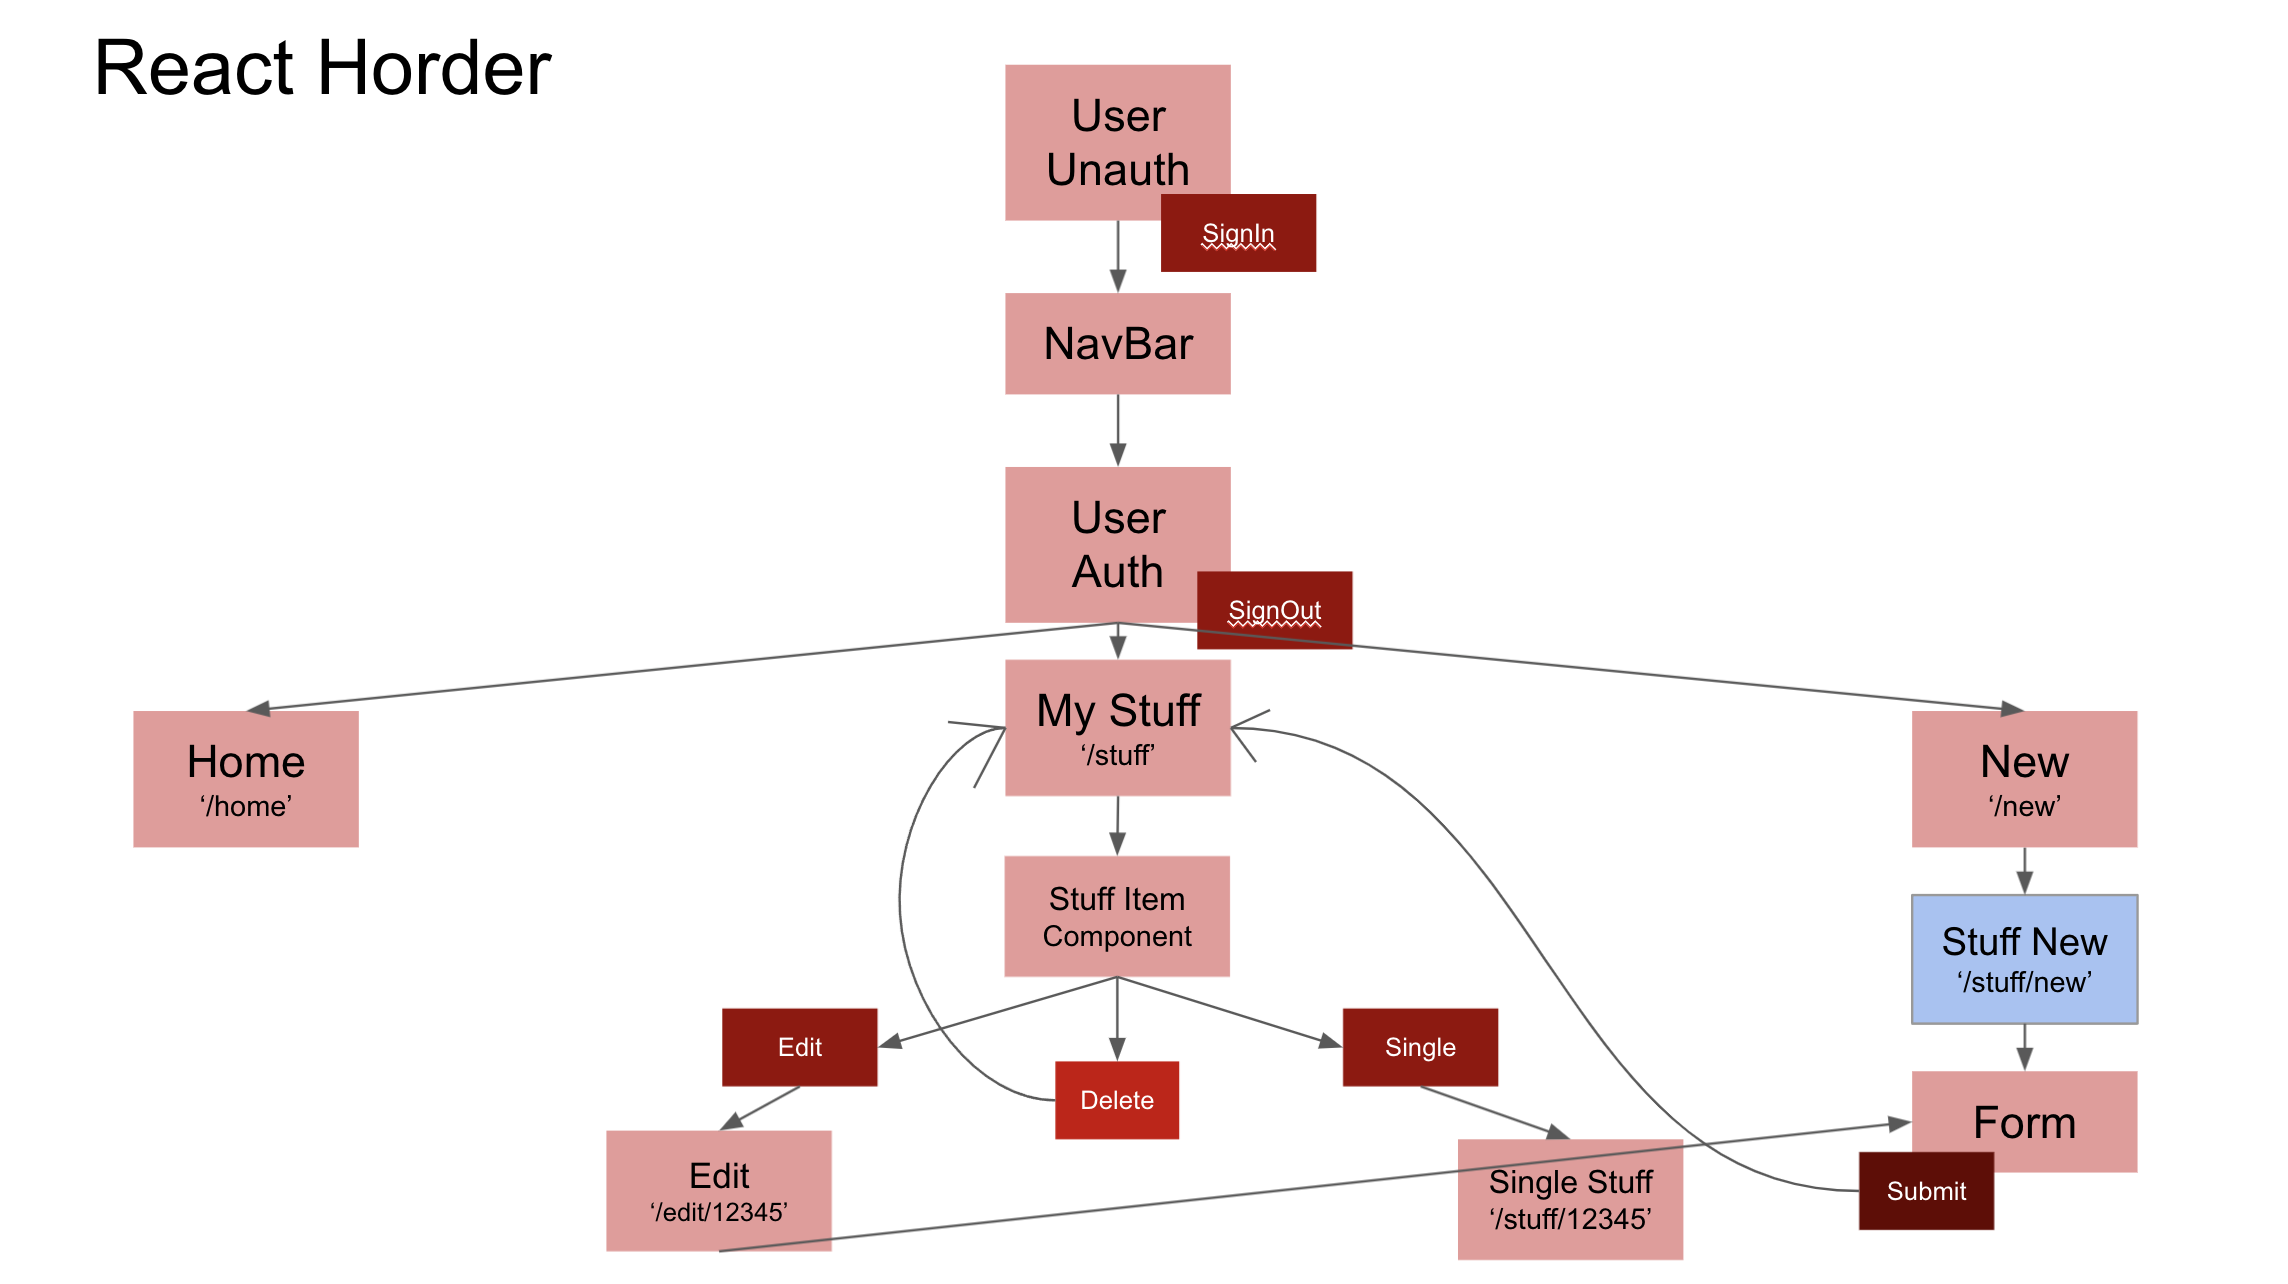
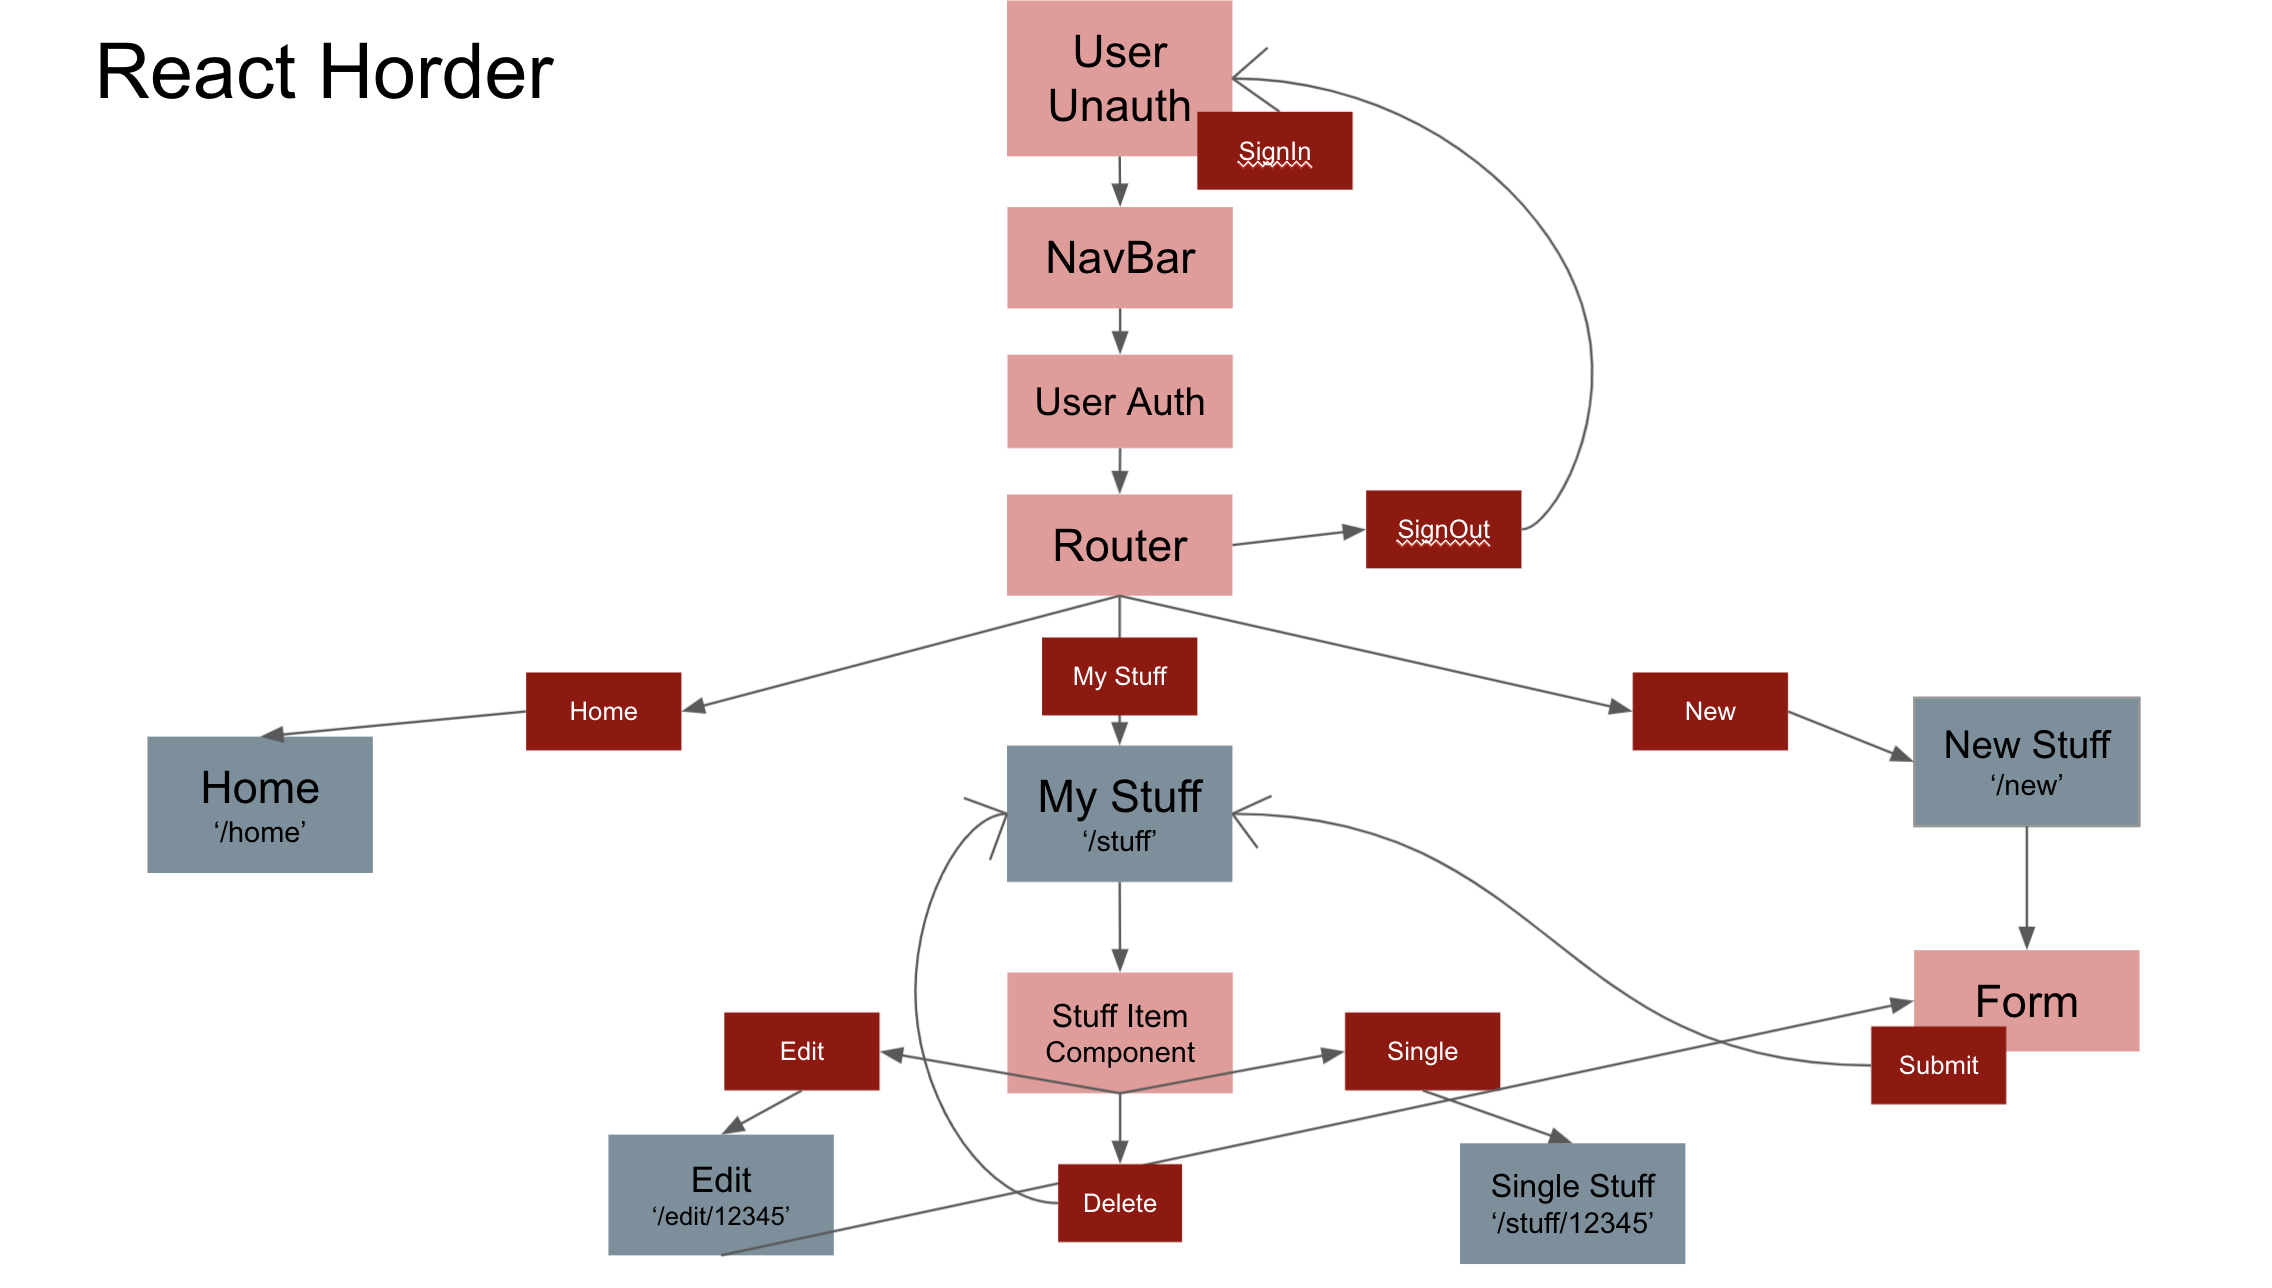
navbar

diff --git a/src/components/Navigation.js b/src/components/Navigation.js
@@ -1,0 +1,73 @@
+import React from 'react';
+import { useHistory } from 'react-router-dom';
+import styled from 'styled-components';
+import PropTypes from 'prop-types';
+import { signOutUser } from '../api/auth';
+
+const NavBar = styled.div`
+  display: flex;
+  justify-content: space-between;
+
+  padding: 10px;
+  border-bottom: 1px solid black;
+`;
+
+const NavContainer = styled.div`
+  display: flex;
+  column-gap: 10px;
+`;
+
+export default function Navigation({ user }) {
+  const history = useHistory();
+
+  return (
+    <NavBar>
+      {user ? (
+        <>
+          <NavContainer>
+            <button
+              type="button"
+              className="btn btn-primary"
+              onClick={() => history.push('/')}
+            >
+              Home
+            </button>
+            <button
+              type="button"
+              className="btn btn-primary"
+              onClick={() => history.push('/stuff')}
+            >
+              Team
+            </button>
+            <button
+              type="button"
+              className="btn btn-primary"
+              onClick={() => history.push('/new')}
+            >
+              New
+            </button>
+          </NavContainer>
+          <button
+            type="button"
+            className="btn btn-danger"
+            onClick={signOutUser}
+          >
+            Sign Out
+          </button>
+        </>
+      ) : (
+        <div>React Hoarder</div>
+      )}
+    </NavBar>
+  );
+}
+
+Navigation.propTypes = {
+  user: PropTypes.shape({
+    uid: PropTypes.string,
+  }),
+};
+
+Navigation.defaultProps = {
+  user: {},
+};

diff --git a/src/Initialize/index.js b/src/Initialize/index.js
@@ -2,7 +2,8 @@ import React, { useState, useEffect } from 'react';
 import firebase from 'firebase/app';
 import 'firebase/auth';
 import SignIn from '../views/SignIn';
-import { signOutUser } from '../api/auth';
+import Authenticated from '../views/Authenticated';
+import Navigation from '../components/Navigation';
 
 function Initialize() {
   const [user, setUser] = useState([]);
@@ -25,20 +26,8 @@ function Initialize() {
 
   return (
     <div className="App">
-      {user ? (
-        <>
-          <h1>Hoard it all!</h1>
-          <button
-            onClick={signOutUser}
-            type="button"
-            className="btn btn-danger border border-dark"
-          >
-            Logout
-          </button>
-        </>
-      ) : (
-        <SignIn user={user} />
-      )}
+      <Navigation user={user} />
+      {user ? <Authenticated user={user} /> : <SignIn user={user} />}
     </div>
   );
 }

diff --git a/src/views/Authenticated.js b/src/views/Authenticated.js
@@ -1,17 +1,10 @@
 import React from 'react';
 import PropTypes from 'prop-types';
-import { signOutUser } from '../api/auth';
 
 export default function Authenticated({ user }) {
   return (
     <div className="text-center mt-5">
-      <h1>Welcome, {user.fullName}!</h1>
-      <img src={user.photo} alt={user.fullName} />
-      <div className="mt-2">
-        <button type="button" className="btn btn-danger" onClick={signOutUser}>
-          Sign Out
-        </button>
-      </div>
+      <h1>Hoard it all, {user.fullName}!</h1>
     </div>
   );
 }
